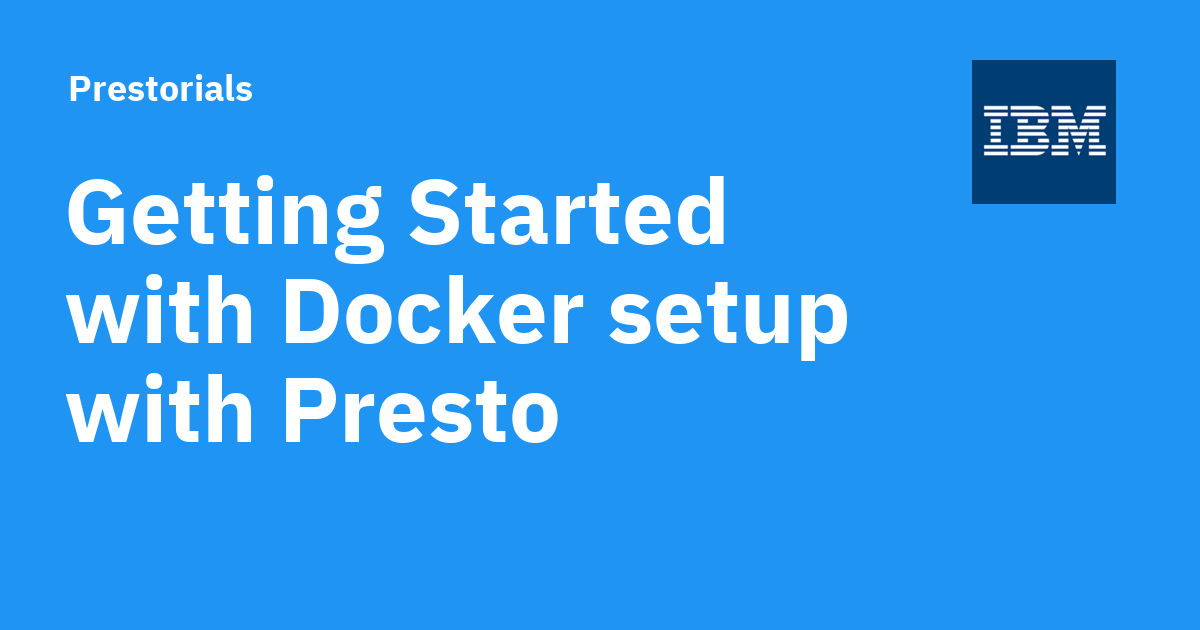
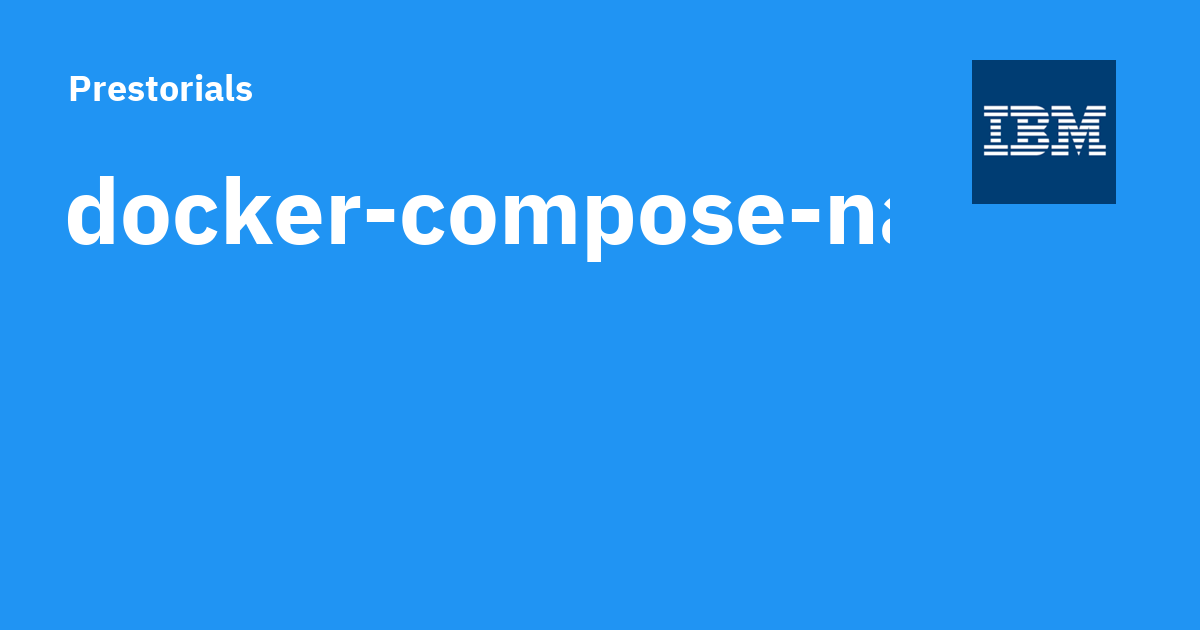
Deployed c553770 with MkDocs version: 1.5.3

Changed region(s): [[0.0617, 0.2714, 0.74, 0.4222], [0.0617, 0.4222, 0.7092, 0.573], [0.0308, 0.573, 0.4625, 0.7238]]

diff --git a/docker-compose-native/readme/index.html b/docker-compose-native/readme/index.html
@@ -13,6 +13,8 @@
         <link rel="canonical" href="https://minhancao.github.io/prestorials/docker-compose-native/readme/">
       
       
+        <link rel="prev" href="../../docker-compose/">
+      
       
       
       <link rel="icon" href="../../assets/images/favicon.png">
@@ -20,7 +22,7 @@
     
     
       
-        <title>Getting Started with Docker setup with Presto coordinator, Prestissimo worker, Hive, MinIO - Prestorials</title>
+        <title>docker-compose-native - Prestorials</title>
       
     
     
@@ -55,7 +57,7 @@
       
         <meta  property="og:type"  content="website" >
       
-        <meta  property="og:title"  content="Getting Started with Docker setup with Presto coordinator, Prestissimo worker, Hive, MinIO - Prestorials" >
+        <meta  property="og:title"  content="docker-compose-native - Prestorials" >
       
         <meta  property="og:description"  content="None" >
       
@@ -71,7 +73,7 @@
       
         <meta  name="twitter:card"  content="summary_large_image" >
       
-        <meta  name="twitter:title"  content="Getting Started with Docker setup with Presto coordinator, Prestissimo worker, Hive, MinIO - Prestorials" >
+        <meta  name="twitter:title"  content="docker-compose-native - Prestorials" >
       
         <meta  name="twitter:description"  content="None" >
       
@@ -129,7 +131,7 @@
         <div class="md-header__topic" data-md-component="header-topic">
           <span class="md-ellipsis">
             
-              Getting Started with Docker setup with Presto coordinator, Prestissimo worker, Hive, MinIO
+              docker-compose-native
             
           </span>
         </div>
@@ -226,10 +228,12 @@
         
   
   
+    
+  
   
     
     
-      <li class="md-tabs__item">
+      <li class="md-tabs__item md-tabs__item--active">
         <a href="../../docker-compose/" class="md-tabs__link">
           
   
@@ -357,8 +361,10 @@
       
   
   
+    
   
   
+  
     
     
     
@@ -367,12 +373,12 @@
       
       
     
-    <li class="md-nav__item md-nav__item--section md-nav__item--nested">
+    <li class="md-nav__item md-nav__item--active md-nav__item--section md-nav__item--nested">
       
         
         
         
-        <input class="md-nav__toggle md-toggle " type="checkbox" id="__nav_2" >
+        <input class="md-nav__toggle md-toggle " type="checkbox" id="__nav_2" checked>
         
           
           <label class="md-nav__link" for="__nav_2" id="__nav_2_label" tabindex="">
@@ -386,7 +392,7 @@
             <span class="md-nav__icon md-icon"></span>
           </label>
         
-        <nav class="md-nav" data-md-level="1" aria-labelledby="__nav_2_label" aria-expanded="false">
+        <nav class="md-nav" data-md-level="1" aria-labelledby="__nav_2_label" aria-expanded="true">
           <label class="md-nav__title" for="__nav_2">
             <span class="md-nav__icon md-icon"></span>
             Prestorials
@@ -418,10 +424,30 @@
                 
   
   
+    
   
   
-    <li class="md-nav__item">
-      <a href="../README.md" class="md-nav__link">
+  
+    <li class="md-nav__item md-nav__item--active">
+      
+      <input class="md-nav__toggle md-toggle" type="checkbox" id="__toc">
+      
+      
+        
+      
+      
+        <label class="md-nav__link md-nav__link--active" for="__toc">
+          
+  
+  <span class="md-ellipsis">
+    docker-compose-native
+  </span>
+  
+
+          <span class="md-nav__icon md-icon"></span>
+        </label>
+      
+      <a href="./" class="md-nav__link md-nav__link--active">
         
   
   <span class="md-ellipsis">
@@ -430,6 +456,35 @@
   
 
       </a>
+      
+        
+
+<nav class="md-nav md-nav--secondary" aria-label="Table of contents">
+  
+  
+  
+    
+  
+  
+    <label class="md-nav__title" for="__toc">
+      <span class="md-nav__icon md-icon"></span>
+      Table of contents
+    </label>
+    <ul class="md-nav__list" data-md-component="toc" data-md-scrollfix>
+      
+        <li class="md-nav__item">
+  <a href="#currently-supported-platforms" class="md-nav__link">
+    <span class="md-ellipsis">
+      Currently supported platforms
+    </span>
+  </a>
+  
+</li>
+      
+    </ul>
+  
+</nav>
+      
     </li>
   
 

diff --git a/docker-compose/index.html b/docker-compose/index.html
@@ -16,6 +16,8 @@
         <link rel="prev" href="../readme/">
       
       
+        <link rel="next" href="../docker-compose-native/readme/">
+      
       
       <link rel="icon" href="../assets/images/favicon.png">
       <meta name="generator" content="mkdocs-1.5.3, mkdocs-material-9.5.2">
@@ -530,7 +532,7 @@
   
   
     <li class="md-nav__item">
-      <a href="../docker-compose-native/README.md" class="md-nav__link">
+      <a href="../docker-compose-native/readme/" class="md-nav__link">
         
   
   <span class="md-ellipsis">

diff --git a/404.html b/404.html
@@ -388,7 +388,7 @@
   
   
     <li class="md-nav__item">
-      <a href="/prestorials/docker-compose-native/README.md" class="md-nav__link">
+      <a href="/prestorials/docker-compose-native/readme/" class="md-nav__link">
         
   
   <span class="md-ellipsis">

diff --git a/docker-compose/MongoDB/readme/index.html b/docker-compose/MongoDB/readme/index.html
@@ -421,7 +421,7 @@
   
   
     <li class="md-nav__item">
-      <a href="../../../docker-compose-native/README.md" class="md-nav__link">
+      <a href="../../../docker-compose-native/readme/" class="md-nav__link">
         
   
   <span class="md-ellipsis">

diff --git a/resources/ADMIN/index.html b/resources/ADMIN/index.html
@@ -421,7 +421,7 @@
   
   
     <li class="md-nav__item">
-      <a href="../../docker-compose-native/README.md" class="md-nav__link">
+      <a href="../../docker-compose-native/readme/" class="md-nav__link">
         
   
   <span class="md-ellipsis">

diff --git a/resources/CONTRIBUTORS/index.html b/resources/CONTRIBUTORS/index.html
@@ -421,7 +421,7 @@
   
   
     <li class="md-nav__item">
-      <a href="../../docker-compose-native/README.md" class="md-nav__link">
+      <a href="../../docker-compose-native/readme/" class="md-nav__link">
         
   
   <span class="md-ellipsis">

diff --git a/resources/MKDOCS/index.html b/resources/MKDOCS/index.html
@@ -421,7 +421,7 @@
   
   
     <li class="md-nav__item">
-      <a href="../../docker-compose-native/README.md" class="md-nav__link">
+      <a href="../../docker-compose-native/readme/" class="md-nav__link">
         
   
   <span class="md-ellipsis">

diff --git a/resources/RESOURCES/index.html b/resources/RESOURCES/index.html
@@ -421,7 +421,7 @@
   
   
     <li class="md-nav__item">
-      <a href="../../docker-compose-native/README.md" class="md-nav__link">
+      <a href="../../docker-compose-native/readme/" class="md-nav__link">
         
   
   <span class="md-ellipsis">

diff --git a/lab-1/index.html b/lab-1/index.html
@@ -421,7 +421,7 @@
   
   
     <li class="md-nav__item">
-      <a href="../docker-compose-native/README.md" class="md-nav__link">
+      <a href="../docker-compose-native/readme/" class="md-nav__link">
         
   
   <span class="md-ellipsis">

diff --git a/pre-work/index.html b/pre-work/index.html
@@ -421,7 +421,7 @@
   
   
     <li class="md-nav__item">
-      <a href="../docker-compose-native/README.md" class="md-nav__link">
+      <a href="../docker-compose-native/readme/" class="md-nav__link">
         
   
   <span class="md-ellipsis">

diff --git a/readme/index.html b/readme/index.html
@@ -503,7 +503,7 @@
   
   
     <li class="md-nav__item">
-      <a href="../docker-compose-native/README.md" class="md-nav__link">
+      <a href="../docker-compose-native/readme/" class="md-nav__link">
         
   
   <span class="md-ellipsis">

diff --git a/docker-compose-native/docs/demo/index.html b/docker-compose-native/docs/demo/index.html
@@ -421,7 +421,7 @@
   
   
     <li class="md-nav__item">
-      <a href="../../README.md" class="md-nav__link">
+      <a href="../../readme/" class="md-nav__link">
         
   
   <span class="md-ellipsis">
